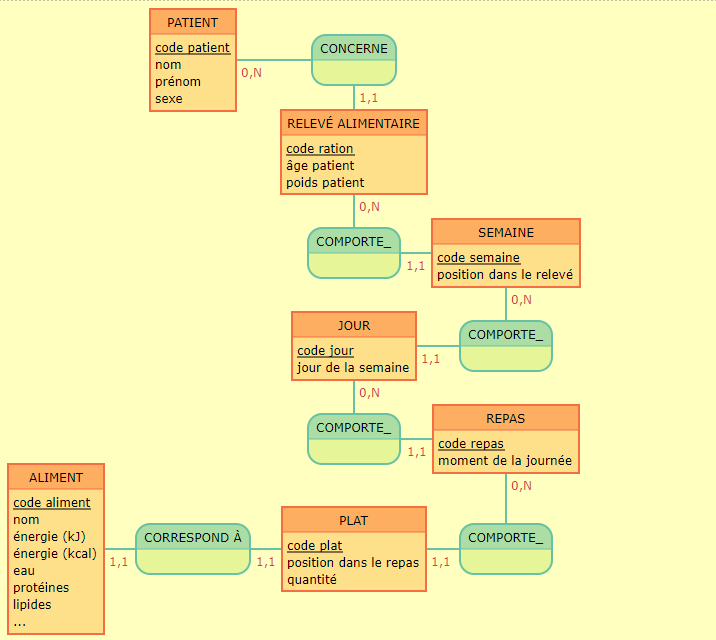
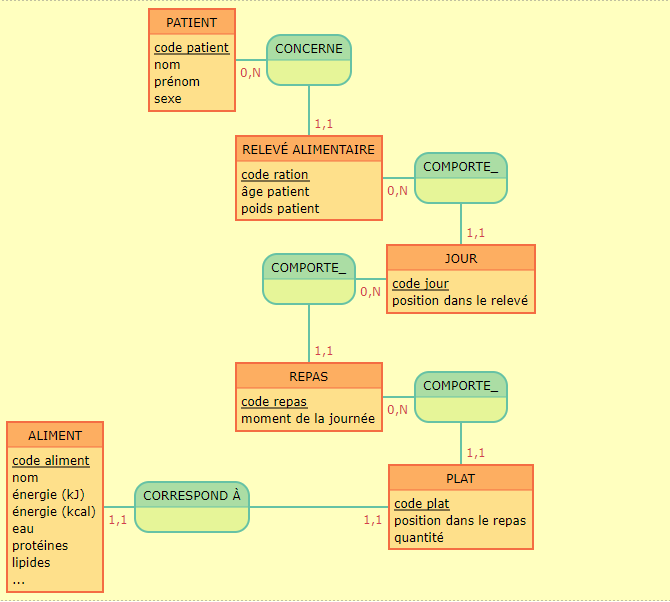
Removing weeks from the MCD/MLD

diff --git a/application/data/mld.md b/application/data/mld.md
@@ -1,9 +1,8 @@
 ```
-FOOD (_id_, name_fr, energy_kj, energy_kcal, water, protein, carbohydrate, ...)
-DAY (_id_, week_day, #WEEK(id))
 PATIENT (_id_, last_name, first_name, gender)
-DISH (_id_, position, amount, #FOOD(id), #MEAL(id))
 FOOD_JOURNAL (id, patient_age, patient_weight, #PATIENT(id))
+FOOD (_id_, name_fr, energy_kj, energy_kcal, water, protein, carbohydrate, ...)
+DAY (_id_, position, #FOOD_JOURNAL(id))
 MEAL (id, time, #DAY(id))
-SEMAINE (_code semaine_, position dans le relevé, #code ration)
+DISH (_id_, position, amount, #FOOD(id), #MEAL(id))
 ```
